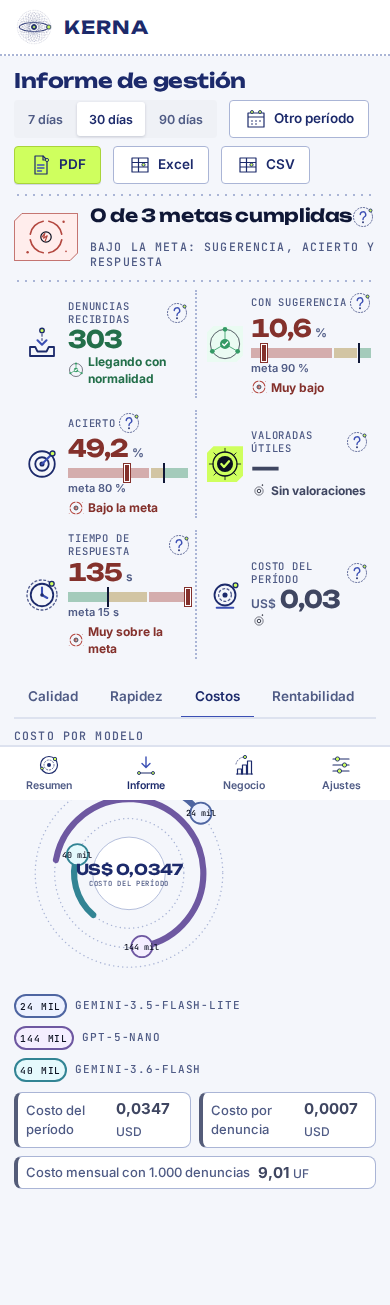
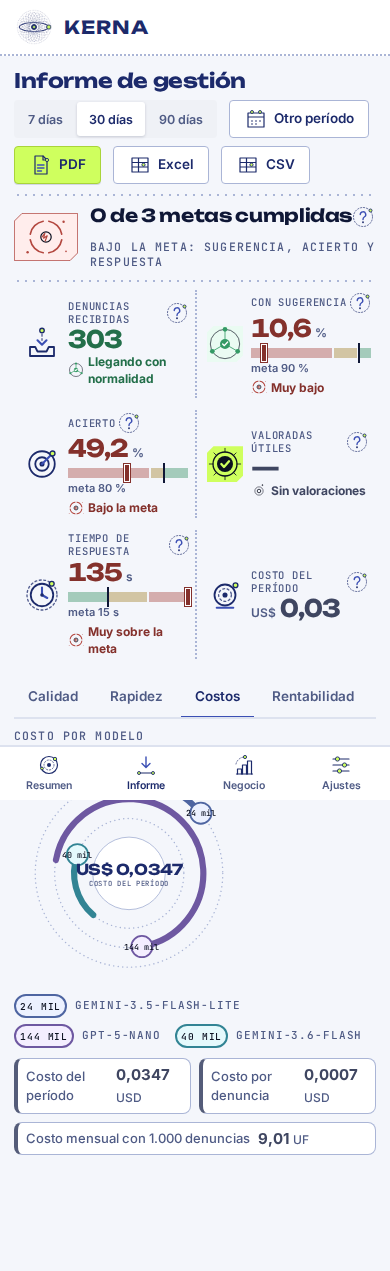
fix(front): controles segmentados sin partirse, etiquetas de Ajustes más cortas, unidades de chips sin salto de línea

diff --git a/kerna/front/app/estaticos/kerna.css b/kerna/front/app/estaticos/kerna.css
@@ -921,7 +921,7 @@ k-n svg,k-lx svg{display:block;width:100%;height:100%;overflow:visible}
 #app .as-ch.ctl{display:inline-flex;flex-wrap:wrap;align-items:center;gap:6px;margin-left:auto;min-height:0;padding:0;border:0;font:500 13px Inter,sans-serif;color:var(--ink);background:none}
 #app .as-ch .ct-n{font-weight:600;font-size:13px}
 .gi{display:grid;grid-template-columns:minmax(0,1fr)}@media(min-width:1100px){.gi{grid-template-columns:minmax(0,1fr) minmax(0,1fr);column-gap:28px}}
-#app .ctl{display:grid;grid-template-columns:minmax(130px,1fr) auto;align-items:center;gap:2px 12px;min-height:46px;padding:4px 0;border-top:1px dotted var(--line-strong);background:none!important}
+#app .ctl{display:grid;grid-template-columns:minmax(116px,1fr) auto;align-items:center;gap:2px 12px;min-height:46px;padding:4px 0;border-top:1px dotted var(--line-strong);background:none!important}
 #app .ctl:first-child{border-top:0}
 @media(min-width:1100px){#app .gi>.ctl:nth-child(2){border-top:0}}
 .ctl-w{grid-column:1/-1}
@@ -970,3 +970,6 @@ html,body{max-width:100%}
 /* Ajustes: sección de una sola fila (Compartir) ajustada a su contenido; textos de los paneles legibles */
 .as-1 .ap{min-height:0;height:88px}.as-1 .ap-svg{width:84px;height:84px}#app .as-1 .as-ch.ctl{margin-left:0;flex-basis:100%}.as-1 .as-r{align-content:start;padding-top:10px}.as-1 .gi{display:none}
 @media(max-width:599px){.subtxt{display:none}.as-1 .ap{height:88px}}
+#app .ctl .seg{flex-wrap:nowrap}
+@media(max-width:599px){#app .ctl[data-t="sg"]{grid-template-columns:minmax(0,1fr)}#app .ctl[data-t="sg"] .ct-c{justify-content:flex-start}}
+.stt b{white-space:nowrap}.stt b small{white-space:nowrap}

diff --git a/kerna/front/app/ajustes.py b/kerna/front/app/ajustes.py
@@ -35,7 +35,7 @@ GRUPOS = [
         {"k": "reprocesar", "t": "sw", "l": "Reintentar los de revisión manual", "d": "Una vez, al guardar. Úsalo tras arreglar una falla."}]},
     {"id": "ia", "t": "Inteligencia artificial", "i": "sparkles", "items": [
         {"k": "evaluador", "t": "sw", "l": "Revisor automático de citas", "d": "Comprueba que las citas respalden cada artículo."},
-        {"k": "candidatos", "t": "rg", "l": "Artículos revisados por caso", "d": "Por cada caso.", "min": 3, "max": 20, "u": ("artículo", "artículos"), "dep": "evaluador"},
+        {"k": "candidatos", "t": "rg", "l": "Artículos por caso", "d": "Por cada caso.", "min": 3, "max": 20, "u": ("artículo", "artículos"), "dep": "evaluador"},
         {"k": "cadena", "t": "cd", "l": "Orden de los modelos", "d": "Cuál se usa primero y cuáles respaldan."}]},
     {"id": "comp", "t": "Compartir", "i": "users", "items": [
         {"k": "compartir", "t": "ch", "l": "Compartir con", "d": "Equipos que reciben el caso con la sugerencia.", "o": [{"v": v, "t": t} for v, t in EQUIPOS]}]},
